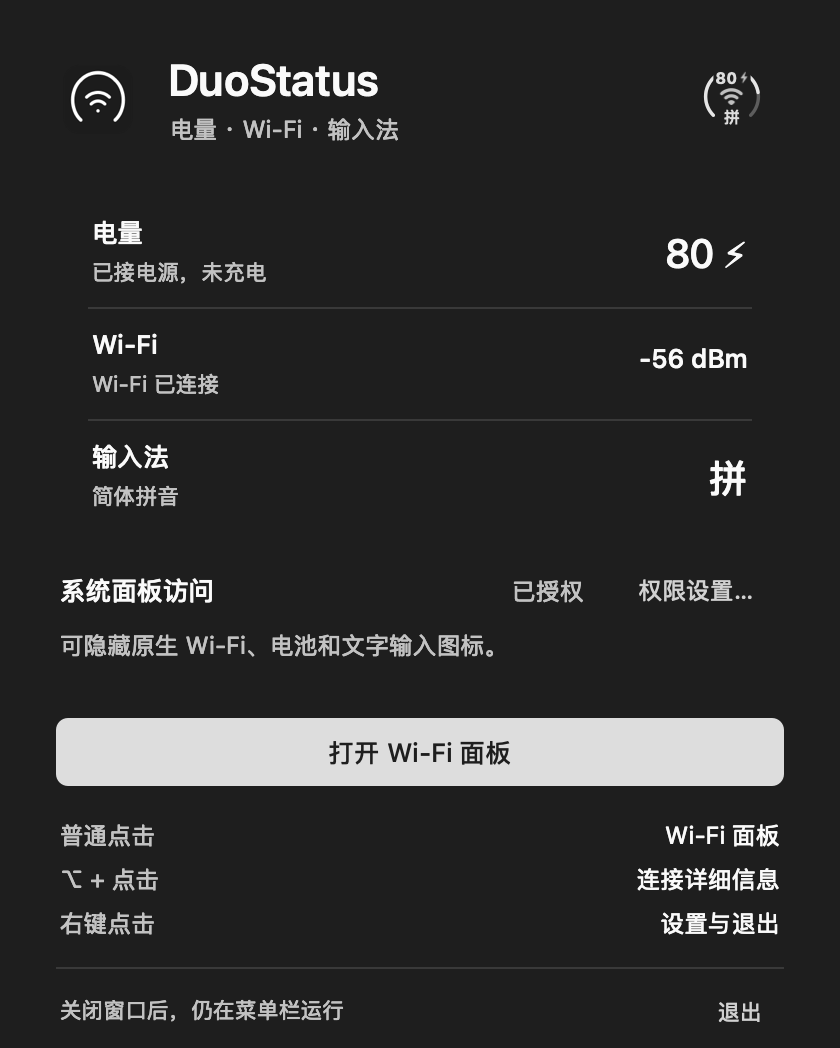
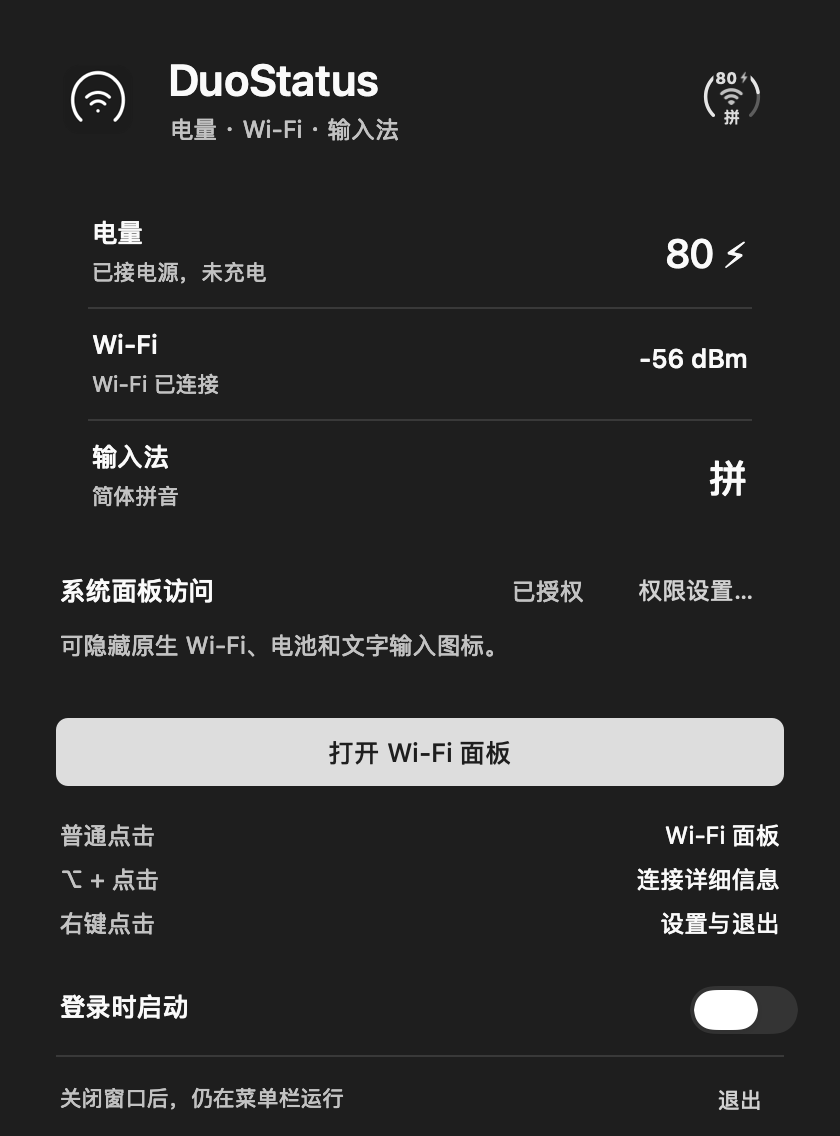
Use the native authorization prompt and add launch at login

diff --git a/main.swift b/main.swift
@@ -4,6 +4,7 @@ import CoreWLAN
 import ApplicationServices
 import Carbon
 import OSLog
+import ServiceManagement
 
 struct Battery: Equatable {
     let percent: Int
@@ -326,6 +327,9 @@ final class AppDelegate: NSObject, NSApplicationDelegate, NSMenuDelegate {
     var inputValue: NSTextField!
     var inputDetail: NSTextField!
     var permissionValue: NSTextField!
+    var permissionButton: NSButton!
+    var loginSwitch: NSSwitch!
+    var loginDetail: NSTextField!
     var preview: RingView!
     var timer: Timer?
     var powerSource: CFRunLoopSource?
@@ -366,7 +370,7 @@ final class AppDelegate: NSObject, NSApplicationDelegate, NSMenuDelegate {
         showWindow()
     }
     func makeWindow() {
-        let size = NSSize(width: 420, height: 524)
+        let size = NSSize(width: 420, height: 568)
         window = NSWindow(contentRect: NSRect(origin: .zero, size: size), styleMask: [.titled, .closable, .miniaturizable], backing: .buffered, defer: false)
         window.title = "DuoStatus"
         window.titlebarAppearsTransparent = true
@@ -410,11 +414,11 @@ final class AppDelegate: NSObject, NSApplicationDelegate, NSMenuDelegate {
         batteryDetail = details[0]; wifiDetail = details[1]; inputDetail = details[2]
         _ = label("系统面板访问", NSRect(x: 28, y: 287, width: 120, height: 20), weight: .medium)
         permissionValue = label("检查中", NSRect(x: 168, y: 288, width: 126, height: 18), size: 12, secondary: true, align: .right)
-        let permission = NSButton(title: "权限设置…", target: self, action: #selector(accessibilitySettings))
-        permission.isBordered = false
-        permission.font = .systemFont(ofSize: 12)
-        permission.frame = NSRect(x: 304, y: 281, width: 88, height: 28)
-        content.addSubview(permission)
+        permissionButton = NSButton(title: "请求授权…", target: self, action: #selector(accessibilitySettings))
+        permissionButton.isBordered = false
+        permissionButton.font = .systemFont(ofSize: 12)
+        permissionButton.frame = NSRect(x: 304, y: 281, width: 88, height: 28)
+        content.addSubview(permissionButton)
         status = label("通过控制中心打开原生 Wi‑Fi 面板。", NSRect(x: 28, y: 315, width: 364, height: 36), size: 12, secondary: true)
         let native = PrimaryButton(title: "打开 Wi‑Fi 面板", target: self, action: #selector(openNativeWiFi))
         native.isBordered = false
@@ -425,14 +429,22 @@ final class AppDelegate: NSObject, NSApplicationDelegate, NSMenuDelegate {
             _ = label(row.0, NSRect(x: 28, y: y, width: 140, height: 18), size: 12, secondary: true)
             _ = label(row.1, NSRect(x: 188, y: y, width: 204, height: 18), size: 12, align: .right)
         }
-        let footerRule = NSBox(frame: NSRect(x: 28, y: 484, width: 364, height: 1))
+        _ = label("登录时启动", NSRect(x: 28, y: 495, width: 100, height: 20), weight: .medium)
+        loginDetail = label("", NSRect(x: 130, y: 496, width: 210, height: 20), size: 11, secondary: true, align: .right)
+        loginSwitch = NSSwitch(frame: NSRect(x: 352, y: 492, width: 40, height: 26))
+        loginSwitch.setAccessibilityLabel("登录时启动")
+        loginSwitch.target = self
+        loginSwitch.action = #selector(toggleLaunchAtLogin(_:))
+        content.addSubview(loginSwitch)
+        updateLoginItem()
+        let footerRule = NSBox(frame: NSRect(x: 28, y: 528, width: 364, height: 1))
         footerRule.boxType = .separator
         content.addSubview(footerRule)
-        _ = label("关闭窗口后，仍在菜单栏运行", NSRect(x: 28, y: 498, width: 290, height: 17), size: 11, secondary: true)
+        _ = label("关闭窗口后，仍在菜单栏运行", NSRect(x: 28, y: 542, width: 290, height: 17), size: 11, secondary: true)
         let quit = NSButton(title: "退出", target: self, action: #selector(quit))
         quit.isBordered = false
         quit.font = .systemFont(ofSize: 11)
-        quit.frame = NSRect(x: 348, y: 492, width: 44, height: 28)
+        quit.frame = NSRect(x: 348, y: 536, width: 44, height: 28)
         content.addSubview(quit)
     }
     func updateWindow() {
@@ -452,9 +464,10 @@ final class AppDelegate: NSObject, NSApplicationDelegate, NSMenuDelegate {
         inputValue.stringValue = inputSource.label
         inputDetail.stringValue = inputSource.label == "拼" ? "简体拼音" : (inputSource.label == "A" ? "英文输入" : inputSource.name)
         let trusted = AXIsProcessTrusted()
+        permissionButton.title = trusted ? "权限设置…" : "请求授权…"
         permissionValue.stringValue = trusted ? "已授权" : "需要授权"
         permissionValue.textColor = trusted ? WindowInk.muted : WindowInk.warning
-        status.stringValue = nativeError ?? (trusted ? "可隐藏原生 Wi‑Fi、电池和文字输入图标。" : "允许 DuoStatus 访问系统面板，即可使用原生 Wi‑Fi 菜单。")
+        status.stringValue = nativeError ?? (trusted ? "可隐藏原生 Wi‑Fi、电池和文字输入图标。" : "点击「请求授权」，在 macOS 提示中选择。也可在「隐私与安全 → 设备控制和数据访问」中管理授权。")
         status.textColor = nativeError == nil ? WindowInk.muted : WindowInk.error
     }
     @objc func wake() { refreshPower(); refreshInput(); refresh() }
@@ -538,7 +551,7 @@ final class AppDelegate: NSObject, NSApplicationDelegate, NSMenuDelegate {
         guard !openingNative else { repeatedNativeClick = true; return }
         guard ProcessInfo.processInfo.systemUptime > nativeFinishedAt + 0.25 else { return }
         guard AXIsProcessTrusted() else {
-            nativeError = "需要授权：请点击“授权设置”，允许 DuoStatus 打开系统 Wi‑Fi 面板。"
+            nativeError = nil
             updateUI()
             return
         }
@@ -558,8 +571,34 @@ final class AppDelegate: NSObject, NSApplicationDelegate, NSMenuDelegate {
         }
     }
     @objc func accessibilitySettings() {
-        _ = AXIsProcessTrustedWithOptions([kAXTrustedCheckOptionPrompt.takeUnretainedValue() as String: true] as CFDictionary)
+        guard AXIsProcessTrusted() else {
+            _ = AXIsProcessTrustedWithOptions([kAXTrustedCheckOptionPrompt.takeUnretainedValue() as String: true] as CFDictionary)
+            return
+        }
         if let url = URL(string: "x-apple.systempreferences:com.apple.preference.security?Privacy_Accessibility") { NSWorkspace.shared.open(url) }
+    }
+    func updateLoginItem() {
+        let state = SMAppService.mainApp.status
+        loginSwitch.state = state == .enabled || state == .requiresApproval ? .on : .off
+        loginDetail.stringValue = state == .requiresApproval ? "请在系统登录项中允许" : ""
+        loginDetail.toolTip = nil
+    }
+    @objc func toggleLaunchAtLogin(_ sender: NSSwitch) {
+        let service = SMAppService.mainApp
+        do {
+            if sender.state == .on { try service.register() }
+            else { try service.unregister() }
+            updateLoginItem()
+        } catch {
+            updateLoginItem()
+            loginDetail.stringValue = "更改失败，请检查系统登录项"
+            loginDetail.toolTip = error.localizedDescription
+        }
+    }
+    func applicationDidBecomeActive(_ notification: Notification) {
+        guard window != nil else { return }
+        updateWindow()
+        updateLoginItem()
     }
     @objc func wifiSettings() {
         if let url = URL(string: "x-apple.systempreferences:com.apple.wifi-settings-extension") { NSWorkspace.shared.open(url) }

diff --git a/README.md b/README.md
@@ -56,9 +56,11 @@ Other macOS versions and Intel builds have not been validated.
 ## Set up
 
 1. [Download the latest release](https://github.com/zhuxc1221/DuoStatus/releases/latest), unzip it and move `DuoStatus.app` to Applications. Quit an older copy before opening a replacement.
-2. Open DuoStatus. For the native Wi-Fi panel, allow it in **System Settings → Privacy & Security → Device Control and Data Access**. On some macOS versions this permission is called **Accessibility**.
+2. Open DuoStatus and click **请求授权…** to request access to the native Wi-Fi panel. Choose whether to open System Settings in the macOS prompt. You can also manage access in **System Settings → Privacy & Security → Device Control and Data Access** (called **Accessibility** on some versions).
 3. In **System Settings → Menu Bar**, turn off the original **Wi-Fi**, **Battery** and **Text Input** items. Leave DuoStatus enabled. Three items are now represented by one combined icon.
 4. Keep the existing **Control Center** entry available. DuoStatus uses it to open the native Wi-Fi panel; the original Wi-Fi menu bar icon can stay hidden.
+
+Turn on **登录时启动** in the DuoStatus window to open it automatically when you sign in to macOS. If macOS requests approval, allow DuoStatus in **System Settings → General → Login Items & Extensions**.
 
 The release is ad-hoc signed and is not notarized by Apple. If macOS blocks it, use the app-specific **Open Anyway** control in **System Settings → Privacy & Security**, or build it from source. The project does not ask you to disable Gatekeeper globally.
 
@@ -107,7 +109,6 @@ Editable SVGs live in `assets/logo/`. Raster assets are drawn with AppKit; the d
 - Notification-to-icon submission is measured in milliseconds, but system notification delivery and display refresh add latency. This is not a hard real-time guarantee.
 - Third-party input methods that change internal language mode without publishing a system input-source change may not update the indicator. Only Apple Pinyin/ABC switching has been checked on hardware.
 - Hiding Text Input removes its menu entry; keyboard switching still works. The combined icon continues to open Wi-Fi.
-- Launch at login is not configured automatically. You can add the app to your login items.
 
 ## Validation
 
